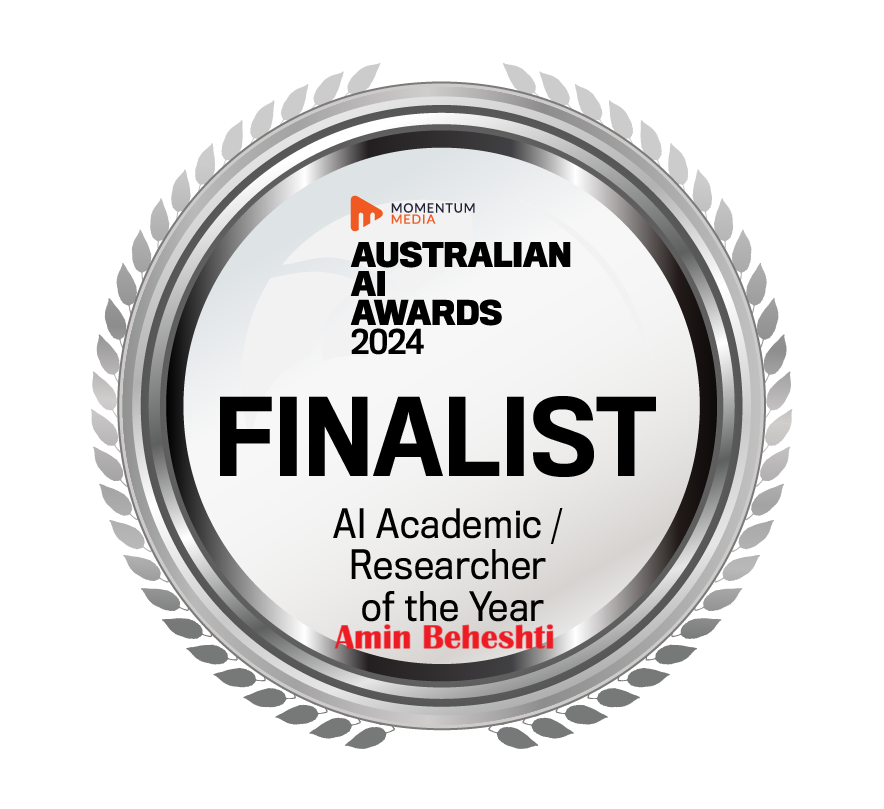
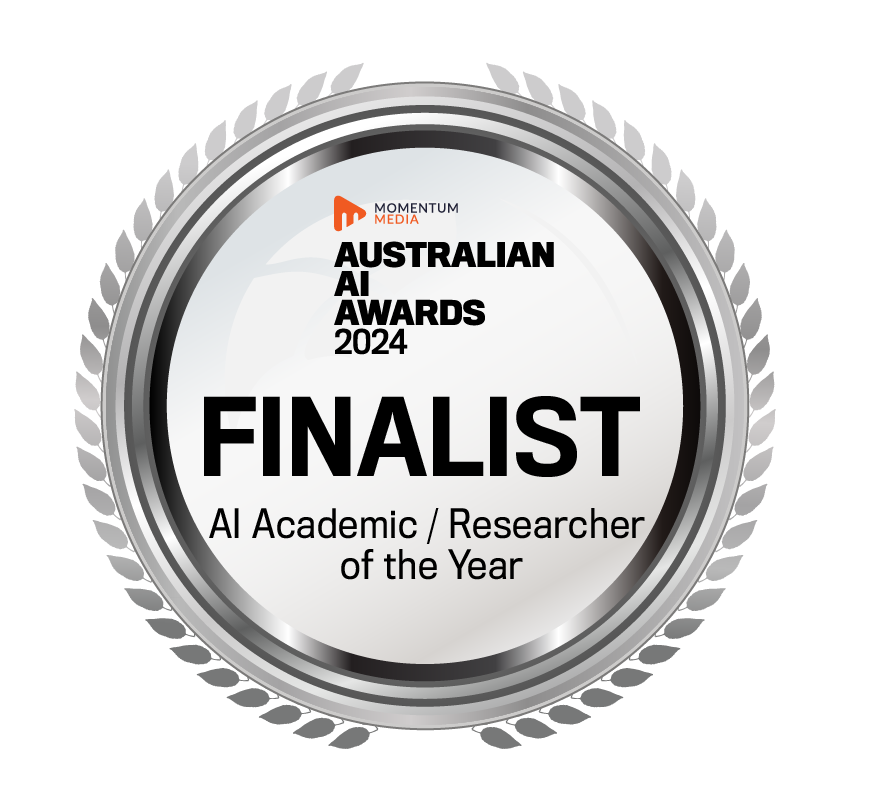
Add files via upload

Changed region(s): [[0.0611, 0.0618, 0.9163, 0.9271]]

diff --git a/people/aminbeheshti/index.html b/people/aminbeheshti/index.html
@@ -56,7 +56,7 @@
 			Excellence Award (Macquarie University, 2023), Excellence in Research Innovation, Partnership Entrepreneurship (Macquarie University, 2022), National Security Impact Award (D2D CRC, 2016 and 2017), Recognition Award (D2D CRC, 2016 and 2017), Australian Postgraduate Award (APA 2009-2012), and several Best Paper awards. In 2021, due to his outstanding performance, Amin was promoted from Senior Lecturer to Full Professor at Macquarie University. As a distinguished researcher in Data and AI Science, Amin has been invited to serve as a <a href="#Activities">Keynote Speaker, General-Chair, PC-Chair, Organisation-Chair, and program committee member</a> of top international conferences. He is also a leading author of several authored books in data, social, and process analytics, co-authored with other high-profile researchers. Amin has been invited to serve as a <strong>Distinguished Jury</strong> member for prestigious awards, including the "<a target="_blank" href="https://www.linkedin.com/posts/aegis-graham-bell-award_agbawards-genai-aiinnovation-activity-7234109877193728003-hxc6?utm_source=share&utm_medium=member_desktop">Aegis Graham Bell Award</a>, recognizing his leadership in AI and significant contributions and involvement in commercialization efforts. Amin has been honored with the prestigious "AI Academic/Researcher of the Year" award at the inaugural Australian AI Awards 2024. He was also a finalist in two additional categories: "AI Leader of the Year – Enterprise" and "AI Rising Star of the Year – Enterprise." <br />
 			
 			<div style="text-align: center">
- 			  <img src="AI_Award_Amin.png" width="200" alt="Winner - AI Academic/Researcher of the Year 2024">
+ 			  <img src="AI_Academic_Winner.png" width="200" alt="Winner - AI Academic/Researcher of the Year 2024">
  			  <img src="AI_Leader.png" width="200" alt="AI Leader of the Year 2024">
 			  <img src="AI_Academic.png" width="200" alt="AI Academic/Researcher of the Year 2024">
 			  <img src="AL_Star.png" width="200" alt="AI Rising Star of the Year 2024">			
